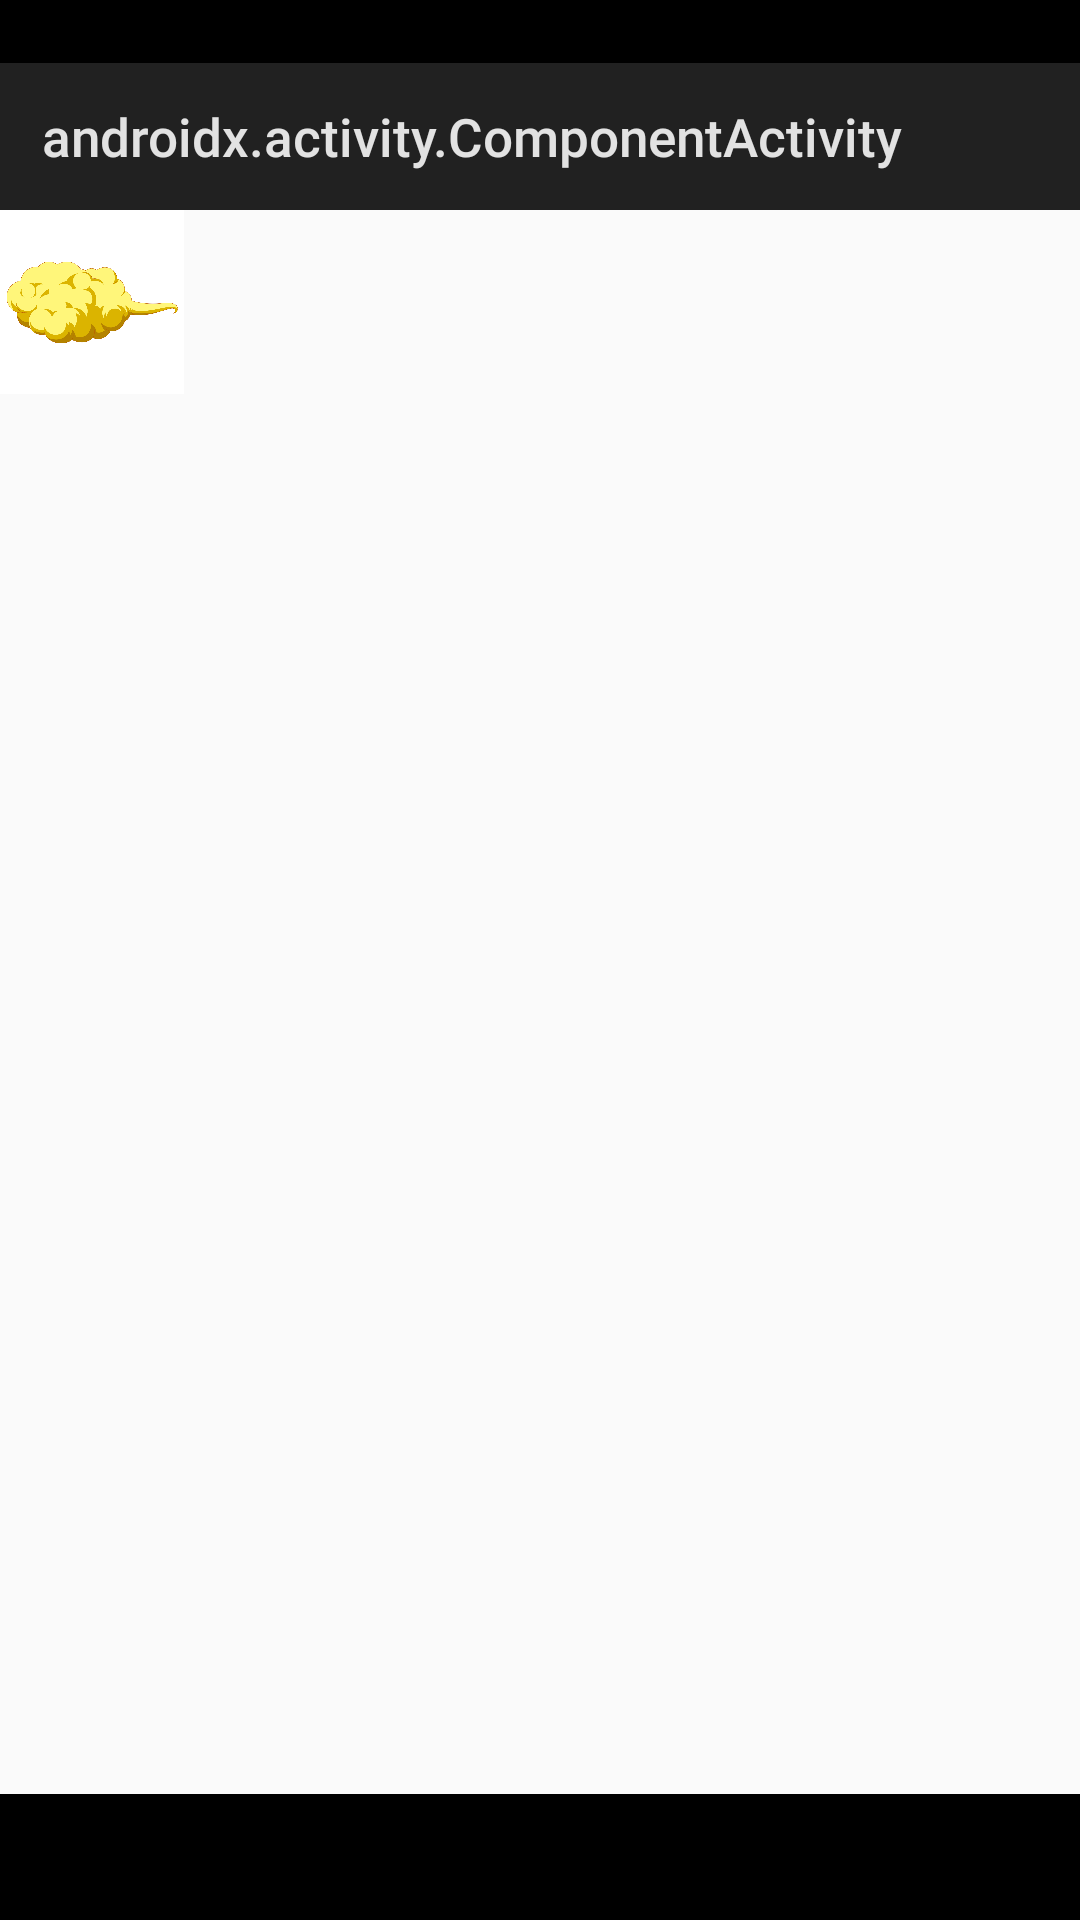
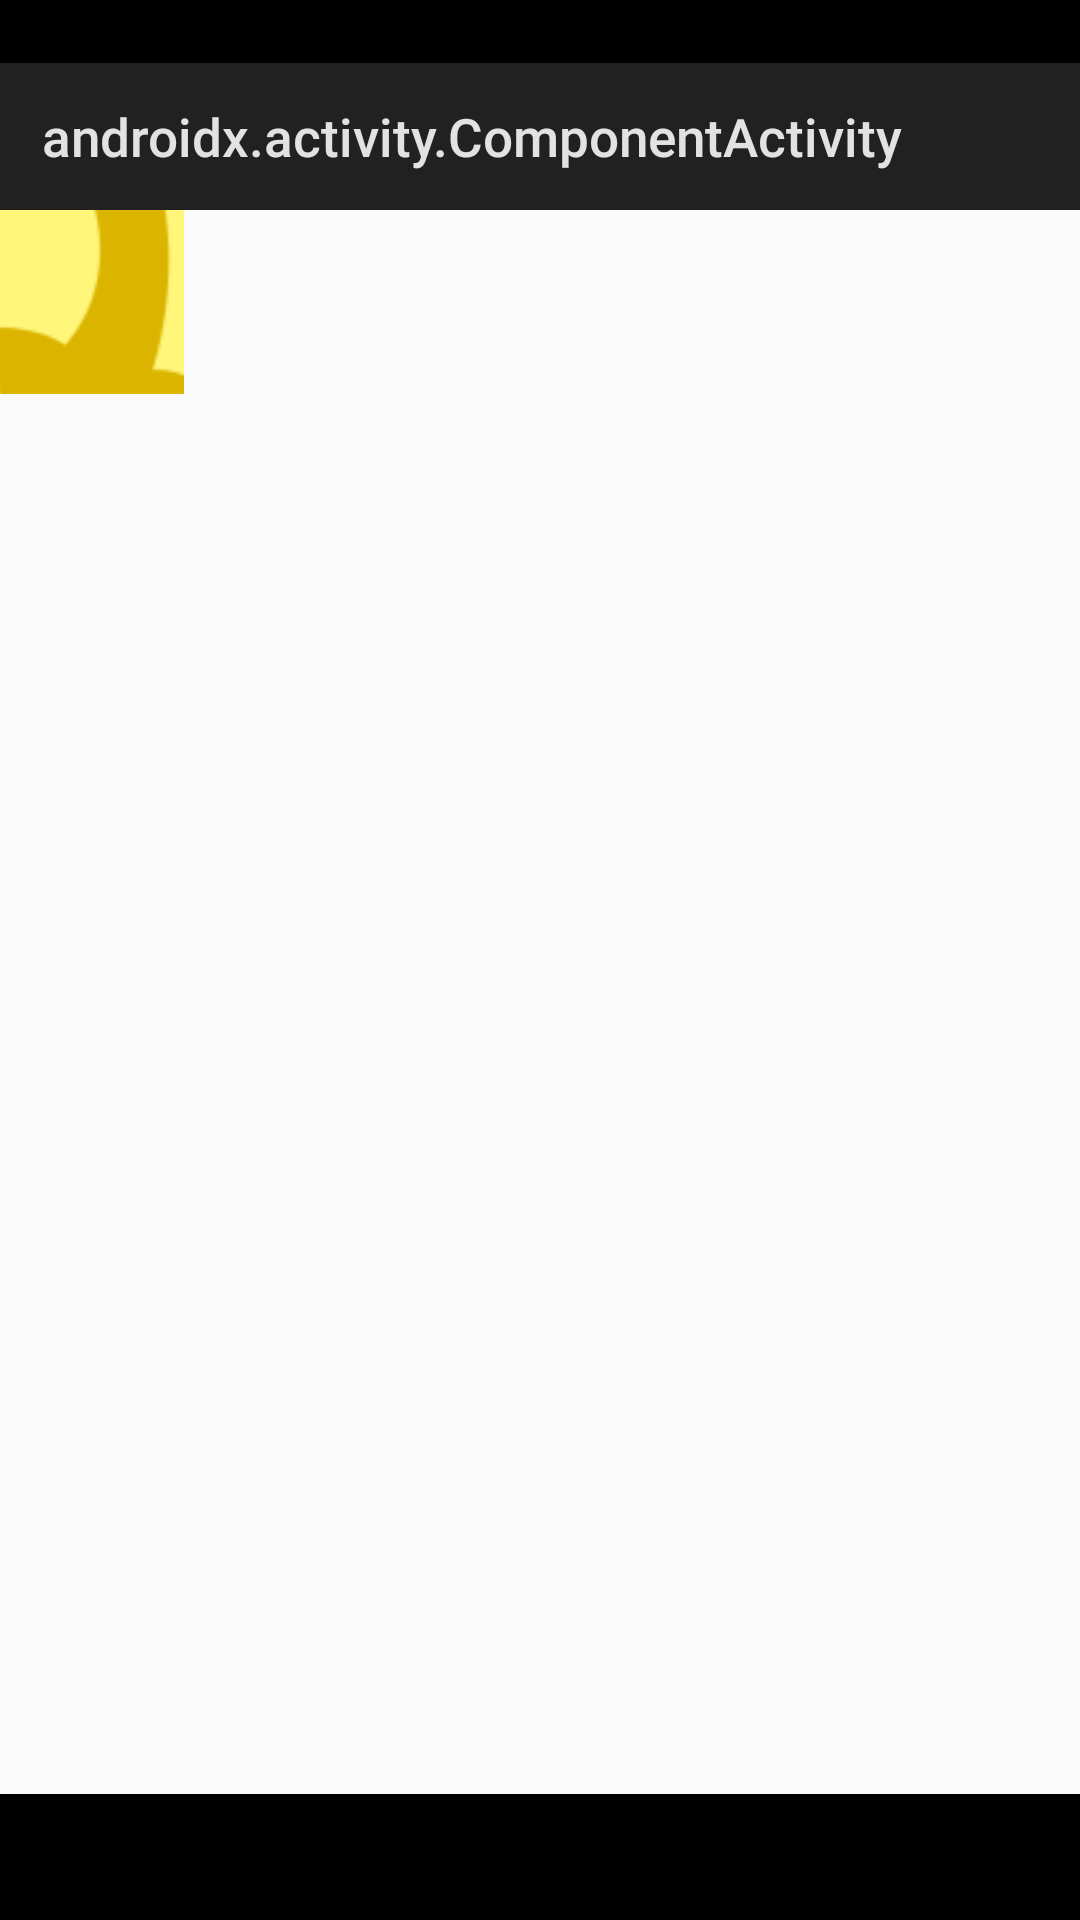
:sparkles: Adds image component

Changed region(s): [[0.0, 0.0938, 0.1833, 0.2188]]

diff --git a/layout/src/main/java/br/com/zup/nimbus/compose/layout/NimbusImage.kt b/layout/src/main/java/br/com/zup/nimbus/compose/layout/NimbusImage.kt
@@ -15,6 +15,7 @@ import androidx.compose.ui.res.painterResource
 import androidx.lifecycle.viewmodel.compose.viewModel
 import br.com.zup.nimbus.compose.layout.extensions.accessibility
 import br.com.zup.nimbus.compose.layout.extensions.image
+import br.com.zup.nimbus.compose.layout.extensions.imageProvider
 import br.com.zup.nimbus.compose.layout.model.BaseImage
 import br.com.zup.nimbus.compose.layout.model.LocalImage
 import br.com.zup.nimbus.compose.layout.model.LocalImageApi
@@ -34,7 +35,7 @@ internal fun NimbusLocalImage(
     modifier: Modifier = Modifier,
     viewModel: ImageViewModel = viewModel(
         factory = ImageViewModel.provideFactory(
-            imageProvider = NimbusTheme.nimbusAppState.config.imageProvider
+            imageProvider = NimbusTheme.nimbusAppState.config.imageProvider()
         )
     ),
     model: LocalImageApi,
@@ -48,7 +49,7 @@ internal fun NimbusRemoteImage(
     modifier: Modifier = Modifier,
     viewModel: ImageViewModel = viewModel(
         factory = ImageViewModel.provideFactory(
-            imageProvider = NimbusTheme.nimbusAppState.config.imageProvider
+            imageProvider = NimbusTheme.nimbusAppState.config.imageProvider()
         )
     ),
     model: RemoteImageApi,
@@ -64,7 +65,7 @@ private fun NimbusImageImpl(
     modifier: Modifier = Modifier,
     viewModel: ImageViewModel = viewModel(
         factory = ImageViewModel.provideFactory(
-            imageProvider = NimbusTheme.nimbusAppState.config.imageProvider
+            imageProvider = NimbusTheme.nimbusAppState.config.imageProvider()
         )
     ),
     model: Image,

diff --git a/sample/src/main/java/br/com/zup/nimbus/compose/layout/sample/MainActivity.kt b/sample/src/main/java/br/com/zup/nimbus/compose/layout/sample/MainActivity.kt
@@ -5,6 +5,7 @@ import androidx.activity.ComponentActivity
 import androidx.activity.compose.setContent
 import androidx.compose.material.MaterialTheme
 import androidx.compose.material.Surface
+import br.com.zup.nimbus.compose.layout.extensions.imageProvider
 import br.com.zup.nimbus.compose.layout.layoutComponents
 import br.com.zup.nimbus.compose.layout.sample.components.CustomError
 import br.com.zup.nimbus.compose.layout.sample.components.customComponents
@@ -19,7 +20,6 @@ class MainActivity : ComponentActivity() {
         baseUrl = BASE_URL,
         components = customComponents + layoutComponents,
         logger = AppLogger(),
-        imageProvider = DefaultImageProvider(),
         errorView = { throwable: Throwable, retry: () -> Unit ->
             CustomError(throwable = throwable, retry = retry)
         }
@@ -31,7 +31,7 @@ class MainActivity : ComponentActivity() {
             AppTheme {
                 // A surface container using the 'background' color from the theme
                 Surface(color = MaterialTheme.colors.background) {
-                    Nimbus(config = config) {
+                    Nimbus(config = config.imageProvider(DefaultImageProvider())) {
                         NimbusNavigator(ViewRequest("/remote_image"))
                     }
                 }

diff --git a/layout/src/androidTest/java/br/com/zup/nimbus/compose/layout/snapshot.kt b/layout/src/androidTest/java/br/com/zup/nimbus/compose/layout/snapshot.kt
@@ -19,6 +19,7 @@ import androidx.test.platform.app.InstrumentationRegistry.getInstrumentation
 import androidx.test.runner.lifecycle.ActivityLifecycleMonitorRegistry
 import androidx.test.runner.lifecycle.Stage
 import br.com.zup.nimbus.android.layout.test.BuildConfig
+import br.com.zup.nimbus.compose.layout.extensions.imageProvider
 import br.com.zup.nimbus.compose.layout.sample.theme.AppTheme
 import br.zup.com.nimbus.compose.ComponentHandler
 import br.zup.com.nimbus.compose.Nimbus
@@ -40,7 +41,6 @@ val customComponents: Map<String, @Composable ComponentHandler> = mapOf(
 
 private val config = NimbusConfig(
     baseUrl = BASE_URL,
-    imageProvider = DefaultImageProvider(),
     components = customComponents + layoutComponents,
     loadingView = {
         Text("Loading...", Modifier.semantics { testTag = loadingTag })
@@ -51,7 +51,7 @@ private val config = NimbusConfig(
 fun ScreenTest(json: String) {
     AppTheme {
         Surface(color = MaterialTheme.colors.background) {
-            Nimbus(config = config) {
+            Nimbus(config = config.imageProvider(DefaultImageProvider())) {
                 NimbusNavigator(json = json)
             }
         }

diff --git a/layout/src/main/java/br/com/zup/nimbus/compose/layout/configuration/DefaultImageProvider.kt b/layout/src/main/java/br/com/zup/nimbus/compose/layout/configuration/DefaultImageProvider.kt
@@ -1,8 +1,8 @@
-package br.com.zup.nimbus.compose.layout.sample
+package br.com.zup.nimbus.compose.layout.configuration
 
 import android.graphics.Bitmap
 import android.graphics.BitmapFactory
-import br.com.zup.nimbus.compose.layout.configuration.ImageProvider
+import com.zup.nimbus.core.network.DefaultHttpClient
 import com.zup.nimbus.core.network.HttpClient
 import com.zup.nimbus.core.network.ServerDrivenHttpMethod
 import com.zup.nimbus.core.network.ServerDrivenRequest
@@ -35,9 +35,5 @@ internal class DefaultImageProvider(
         }
     }
 
-    override fun fetchLocal(id: String): Int? = when (id) {
-        "nimbus-local" -> R.drawable.nimbus_local
-        "placeholder-img" -> R.drawable.placeholder_img
-        else -> null
-    }
+    override fun fetchLocal(id: String): Int? = null
 }

diff --git a/layout/src/main/java/br/com/zup/nimbus/compose/layout/extensions/NimbusConfigExtensions.kt b/layout/src/main/java/br/com/zup/nimbus/compose/layout/extensions/NimbusConfigExtensions.kt
@@ -1,0 +1,15 @@
+package br.com.zup.nimbus.compose.layout.extensions
+
+import br.com.zup.nimbus.compose.layout.configuration.DefaultImageProvider
+import br.com.zup.nimbus.compose.layout.configuration.ImageProvider
+import br.zup.com.nimbus.compose.NimbusConfig
+
+private const val NIMBUS_IMAGE_PROVIDER_KEY = "NIMBUS_IMAGE_PROVIDER_KEY"
+
+fun NimbusConfig.imageProvider(imageProvider: ImageProvider) = enviromentObject(
+    key = NIMBUS_IMAGE_PROVIDER_KEY,
+    value = imageProvider
+)
+
+internal fun NimbusConfig.imageProvider(): ImageProvider =
+    enviromentObject(key = NIMBUS_IMAGE_PROVIDER_KEY) ?: DefaultImageProvider()

diff --git a/layout/src/main/java/br/com/zup/nimbus/compose/layout/model/layout.kt b/layout/src/main/java/br/com/zup/nimbus/compose/layout/model/layout.kt
@@ -41,10 +41,10 @@ internal enum class ImageScale(val value: String) {
 
     fun toContentScale(): ContentScale =
         when (this) {
-            ImageScale.FILL_HEIGHT -> ContentScale.Crop
-            ImageScale.FILL_WIDTH -> ContentScale.Fit
-            ImageScale.FILL_BOUNDS -> ContentScale.FillBounds
-            ImageScale.CENTER -> ContentScale.Inside
+            FILL_HEIGHT -> ContentScale.Crop
+            FILL_WIDTH -> ContentScale.Fit
+            FILL_BOUNDS -> ContentScale.FillBounds
+            CENTER -> ContentScale.None
         }
 }
 

diff --git a/layout/src/androidTest/java/br/com/zup/nimbus/compose/layout/DefaultImageProvider.kt b/layout/src/androidTest/java/br/com/zup/nimbus/compose/layout/DefaultImageProvider.kt
@@ -3,8 +3,7 @@ package br.com.zup.nimbus.compose.layout
 import android.graphics.Bitmap
 import android.graphics.BitmapFactory
 import br.com.zup.nimbus.android.layout.test.R
-import br.com.zup.nimbus.compose.layout.sample.DefaultHttpClient
-import br.zup.com.nimbus.compose.ImageProvider
+import br.com.zup.nimbus.compose.layout.configuration.ImageProvider
 import com.zup.nimbus.core.network.HttpClient
 import com.zup.nimbus.core.network.ServerDrivenHttpMethod
 import com.zup.nimbus.core.network.ServerDrivenRequest

diff --git a/layout/src/main/java/br/com/zup/nimbus/compose/layout/viewmodel/ImageViewModel.kt b/layout/src/main/java/br/com/zup/nimbus/compose/layout/viewmodel/ImageViewModel.kt
@@ -2,11 +2,10 @@ package br.com.zup.nimbus.compose.layout.viewmodel
 
 import android.graphics.Bitmap
 import androidx.annotation.DrawableRes
-import androidx.compose.ui.layout.ContentScale
 import androidx.lifecycle.ViewModel
 import androidx.lifecycle.ViewModelProvider
 import androidx.lifecycle.viewModelScope
-import br.zup.com.nimbus.compose.ImageProvider
+import br.com.zup.nimbus.compose.layout.configuration.ImageProvider
 import kotlinx.coroutines.Dispatchers
 import kotlinx.coroutines.launch
 

diff --git a/layout/src/main/java/br/com/zup/nimbus/compose/layout/configuration/ImageProvider.kt b/layout/src/main/java/br/com/zup/nimbus/compose/layout/configuration/ImageProvider.kt
@@ -1,0 +1,12 @@
+package br.com.zup.nimbus.compose.layout.configuration
+
+import android.graphics.Bitmap
+import androidx.annotation.DrawableRes
+
+interface ImageProvider {
+
+    fun fetchRemote(url: String, onFetch: (Bitmap) -> Unit, onError: (Throwable) -> Unit)
+
+    @DrawableRes
+    fun fetchLocal(id: String): Int?
+}

diff --git a/layout/src/androidTest/java/br/com/zup/nimbus/compose/layout/DefaultHttpClient.kt b/layout/src/androidTest/java/br/com/zup/nimbus/compose/layout/DefaultHttpClient.kt
@@ -1,4 +1,4 @@
-package br.com.zup.nimbus.compose.layout.sample
+package br.com.zup.nimbus.compose.layout
 
 import com.zup.nimbus.core.network.ServerDrivenHttpMethod
 import com.zup.nimbus.core.network.ServerDrivenRequest
